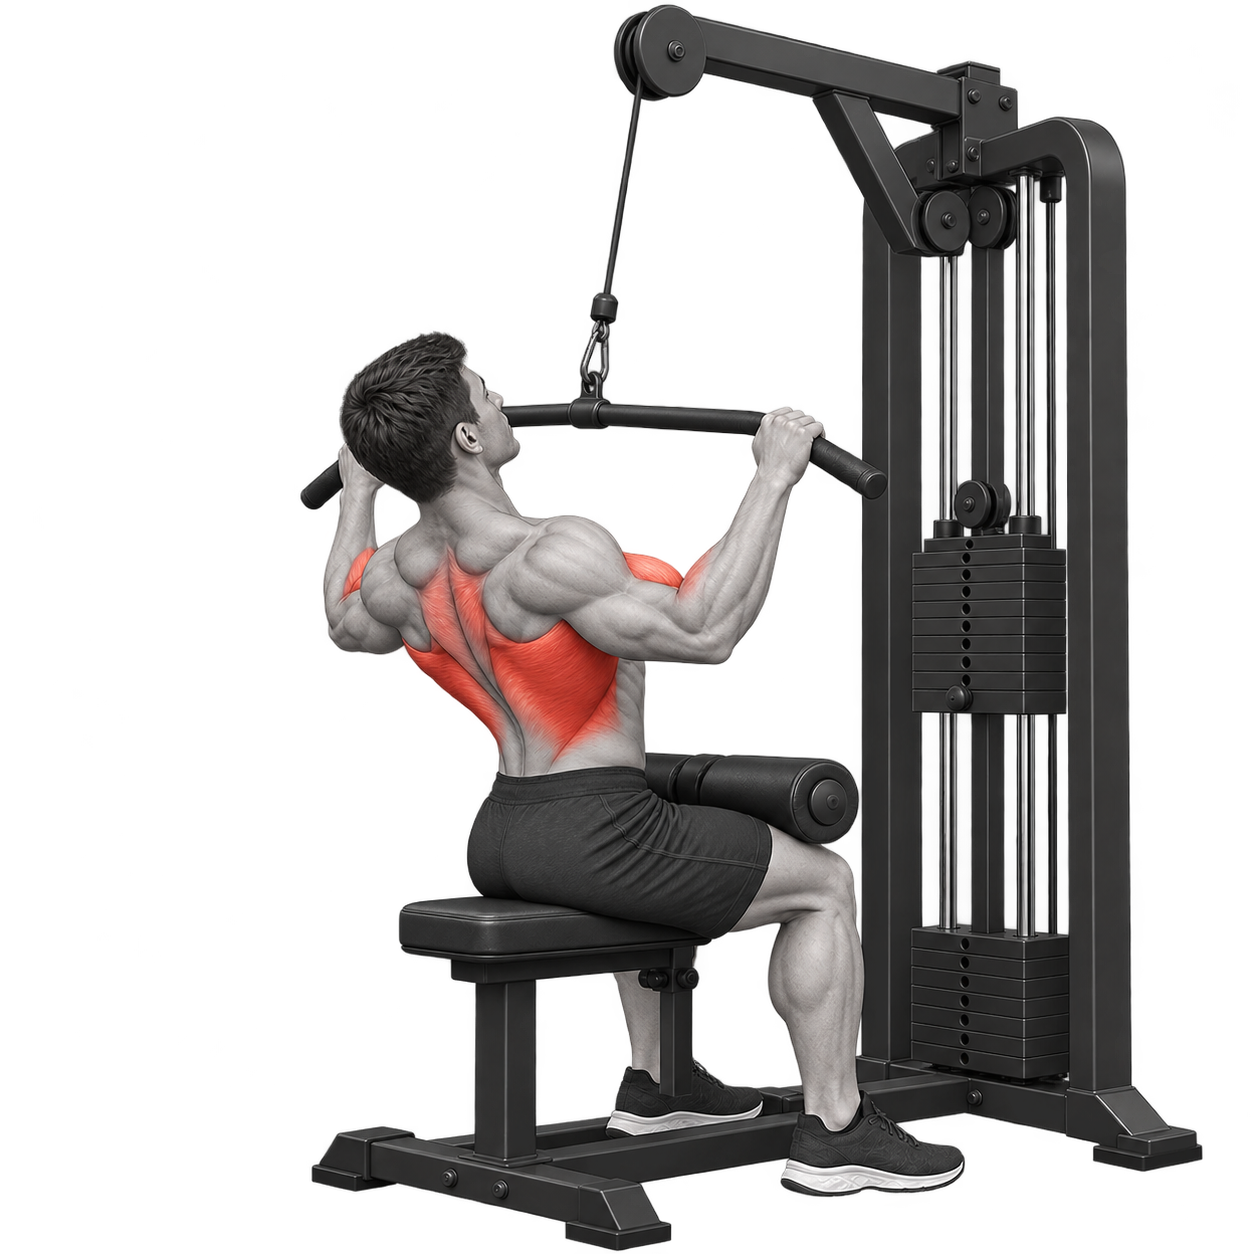
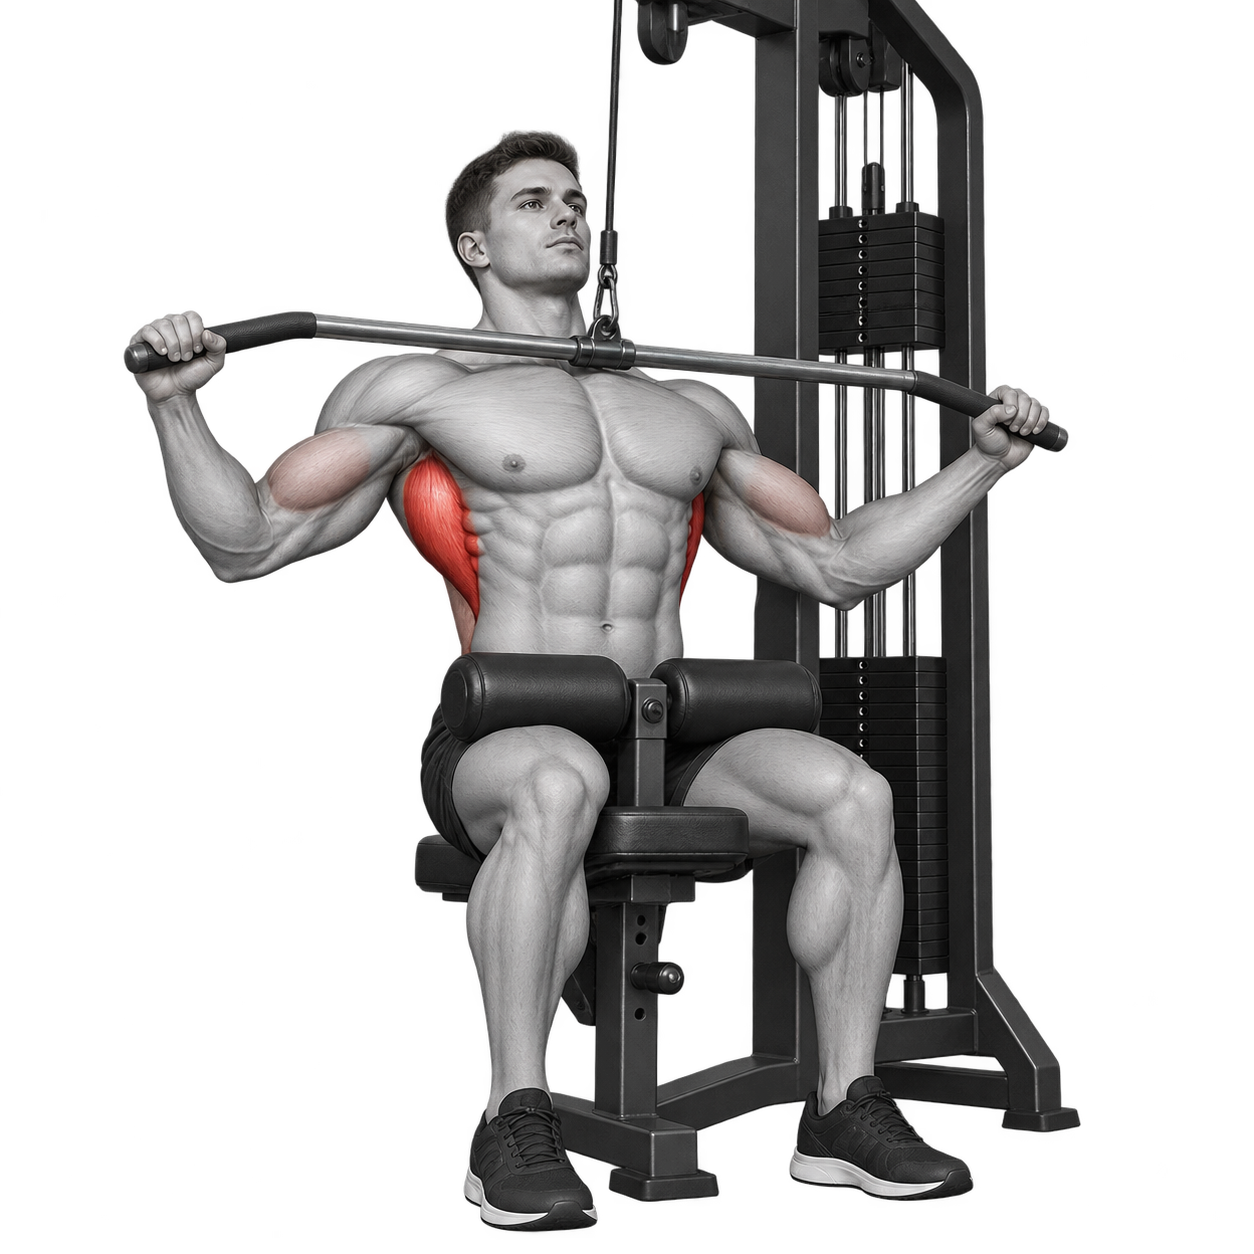
Improve lat pulldown pilot form and anatomy

diff --git a/docs/pilots/wide-grip-lat-pulldown/review.md b/docs/pilots/wide-grip-lat-pulldown/review.md
@@ -2,8 +2,8 @@
 
 Requested Monk Mode exercise: `Wide-Grip_Lat_Pulldown` from `data/free-exercise-db/exercises.json` (also present in the generated slim list and instructions). Equipment: cable. Primary: lats. Secondary: biceps, middle back, shoulders. Atlas candidate: `lat-pulldown`, also cable and primary lats, with biceps/upper-back secondary. The Atlas record is generic and does not specify the wide overhand grip; it omits shoulders. Name similarity does not establish variation equivalence. No `legacyIds`, muscle classification, or Atlas exercise record was changed.
 
-The [manifest](manifest.json) was created with Monk Mode's `monk-exercise-illustrator` plan script, then completed with exercise-specific prompts, two original PNG master files and 1024×1024 WebP review copies. Generation used OpenAI's built-in image tool on 2026-10-13; its exact model identifier was not exposed. Monk's local `public/exercises/lats.webp` informed visual style for the start image. The start draft then informed character and machine continuity for the finish. The local style reference was not copied into these files. Hashes are recorded in the manifest.
+The [manifest](manifest.json) was created with Monk Mode's `monk-exercise-illustrator` plan script, then completed with exercise-specific prompts, two original PNG master files and 1024×1024 WebP review copies. Generation used OpenAI's built-in image tool on 2026-10-13; its exact model identifier was not exposed. The first rear-view attempts were rejected because the bar appeared at face height or behind the neck. The current pair uses a new front three-quarter finish with the bar at the upper chest; that finish then informed character and machine continuity for the start. Monk's local `public/exercises/lats.webp` informed the visual style of an earlier rejected draft and was not copied into these files. Hashes are recorded in the manifest.
 
-**Visual outcome:** START shows an overhead wide grip, seated support and clearly highlighted lats. FINISH remains **unapproved** after two correction attempts: the bar still reads at face height rather than clearly at the upper chest. A form and anatomy reviewer should also check the secondary overlay boundaries and cable/weight-stack geometry in both frames. This finish image must not be presented as a correct exercise guide.
+**Visual outcome:** START shows an overhead wide grip and seated support. FINISH now shows the bar in front of the neck near the upper chest and bent elbows. This matches the bar-path description in [ACE's seated lat pulldown guide](https://www.acefitness.org/resources/everyone/exercise-library/158/seated-lat-pulldown/) and [ACE's wide-grip guidance](https://www.acefitness.org/resources/everyone/blog/4847/hiit-upper-body-workout-try-this-fat-blasting-workout/). A qualified reviewer still needs to check joint mechanics, lat/biceps/middle-back overlay boundaries and cable/weight-stack geometry in both frames. The pair remains **unapproved** until that review.
 
-Both files stay in this review folder. No files were placed in `media/exercises/`; the draft `media` objects have deliberately empty rights and final source fields. Atlas `reviewStatus` remains `pending`, and `dist/` is built only through project scripts. Correct the finish frame and resolve variation, anatomy and rights review before registration or a Monk Mode integration change.
+Both files stay in this review folder. No files were placed in `media/exercises/`; the draft `media` objects have deliberately empty rights and final source fields. Atlas `reviewStatus` remains `pending`, and `dist/` is built only through project scripts. Resolve variation, anatomy and rights review before registration or a Monk Mode integration change.
